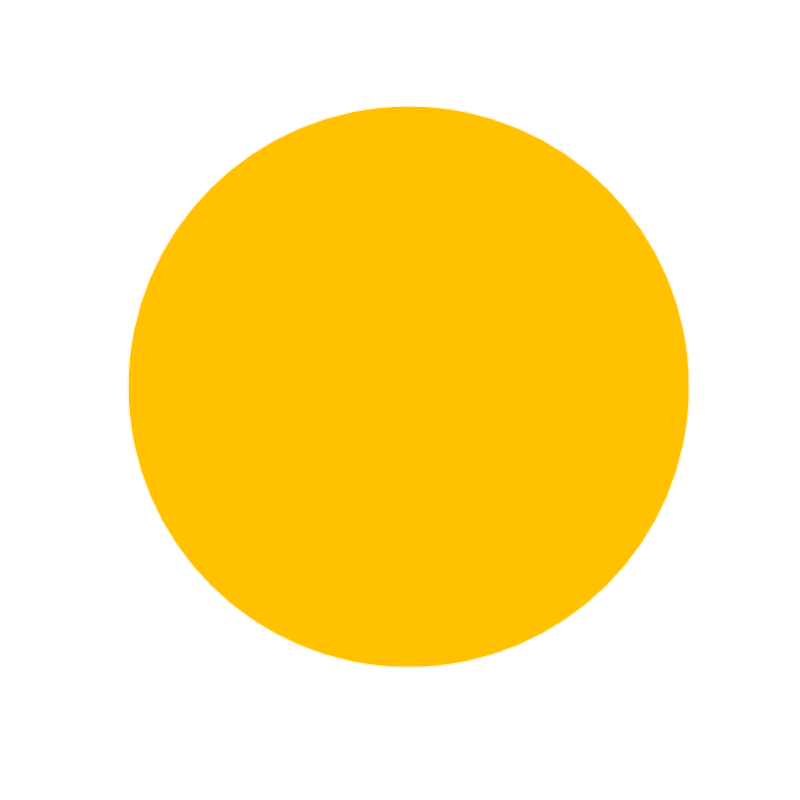
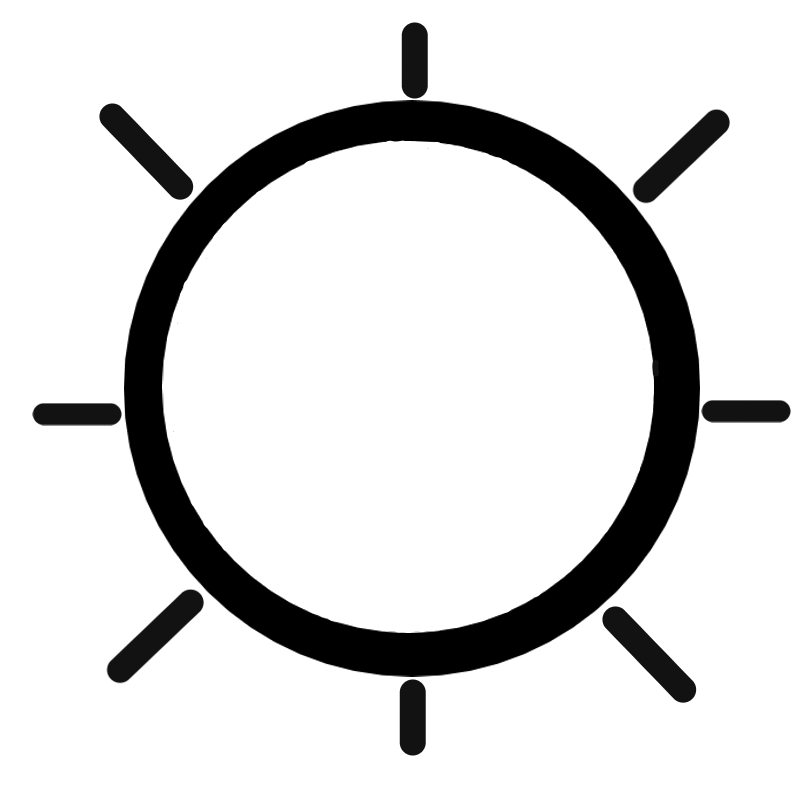
redesigned toggle

diff --git a/css/base.css b/css/base.css
@@ -20,16 +20,16 @@ body {
 
 /* Toggle background in Light Mode */
 label {
-  width: 6%;
+  width: 4%;
   height: 30%;
   position: relative;
   margin-left: 90%;
   bottom: 25%;
   margin-bottom: 1%;
   display: inline-block;
-  background: deepskyblue; /* Light theme background */
+  background: lightgray; /* Light theme background */
   border-radius: 200px;
-  box-shadow: inset 0px 5px 15px rgba(0, 0, 0, 0.4), inset 0px 5px 15px rgba(255, 255, 255, 0.4);
+  /* box-shadow: inset 0px 5px 15px rgba(0, 0, 0, 0.4), inset 0px 5px 15px rgba(255, 255, 255, 0.4); */
   cursor: pointer;
   transition: 0.3s;
   max-width: 180px;
@@ -41,19 +41,10 @@ label {
   max-height: 36px;
   max-width: 36px;
   position: absolute;
-  left: 40%;
-  bottom: 5%;
-  transition: 0.69s ease;
+  right: 110%;
+  top: 5%;
 }
 
-.cloud {
-  width: 3.3vw;
-  height: 3.3vw;
-  max-height: 50px;
-  max-width: 50px;
-  position: absolute;
-  transition: 0.69s ease;
-}
 
 .moon {
   width: 3.3vw;
@@ -61,23 +52,22 @@ label {
   max-height: 40px;
   max-width: 40px;
   position: absolute;
-  left: 8%;
-  opacity: 0;
-  transition: 0.69s ease;
+  left: 100%;
+  opacity: 1;
 }
 
 label:after {
   content: "";
   width: 3.3vw;
   height: 3.3vw;
-  max-width: 36px;
-  max-height: 36px;
+  max-width: 28px; /* toggle size */
+  max-height: 28px;
   position: absolute;
-  top: 1px;
+  top: 4px;
   left: 4.5px;
-  background: linear-gradient(180deg, #fff44f, yellow); /* Toggle Color (Light) */
+  background: white; /* Toggle Color (Light) */
   border-radius: 180px;
-  box-shadow: 0px 5px 10px rgba(0, 0, 0, 0.2);
+  /* box-shadow: 0px 5px 10px rgba(0, 0, 0, 0.2); */
   transition: all 0.4s ease;
 }
 
@@ -91,29 +81,14 @@ input {
 /* Toggle in Dark Mode */
 
 input:checked + label {
-  background: #000036; /* Dark Theme Background */
-}
-
-input:checked + label .sun {
-  opacity: 0;
-  transition: 0.2s ease;
-}
-
-input:checked + label .cloud {
-  opacity: 0;
-  transition: 0.2s ease;
-}
-
-input:checked + label .moon {
-  opacity: 1;
-  transition: 0.2s ease;
+  background: gray; /* Dark Theme Background */
 }
 
 input:checked + label:after {
-  left: 98%; /* How Far you want the toggle to move before it stops */
-  top: 1px;
+  left: 92%; /* How Far you want the toggle to move before it stops */
+  top: 4px;
   transform: translateX(-100%);
-  background: linear-gradient(180deg, #3ba8f5, #006db0); /* Toggle Color (Dark) */
+  /* background: black; /* Toggle Color (Dark) */ 
 }
 
 body.darkmode {
@@ -178,7 +153,7 @@ body.lightmode {
 }
 
 /* Mobile version */
-@media (max-width: 768px) {
+@media (max-width: 1080px) {
   label {
     width: 12vw;      
     height: 4vw;     
@@ -188,12 +163,12 @@ body.lightmode {
   }
 
   label:after {
-    width: 6vw;
-    height: 6vw;
-    max-width: 28px;
-    max-height: 28px;
-    top: 1px;
-    left: 2px;
+    width: 3vw;
+    height: 3vw;
+    max-width: 24px;
+    max-height: 24px;
+    top: 4px;
+    left: 4.5px;
   }
   .sun{
     width: 6vw;
@@ -201,16 +176,7 @@ body.lightmode {
     max-width: 28px;
     max-height: 28px;
     top: 1px;
-    left: 50%;
-  }
-
-  .cloud {
-    width: 40%;
-    height: 100%;
-    max-width: 180px;
-    max-height: 180px;
-    left: 55%;
-    top: 12%;
+    right: 109%;
   }
 
   .moon {
@@ -219,14 +185,12 @@ body.lightmode {
     max-height: 40px;
     max-width: 40px;
     position: absolute;
-    left: 8%;
+    left: 100%;
     bottom: 1%;
-    opacity: 0;
-    transition: 0.69s ease;
   }
 
   input:checked + label:after {
-    left: 98%; 
+    left: 95%; 
   }
 }
 

diff --git a/index.html b/index.html
@@ -22,7 +22,6 @@
         <input type="checkbox" id="darkmode-toggle">
         <label for="darkmode-toggle">
           <img class="sun" src="images/sun.png" alt="sun">
-          <img class="cloud" src="images/cloud.png" alt="cloud">
           <img class="moon" src="images/moon.png" alt="moon">
         </label>
         <script src="js/darkmode.js"></script>
